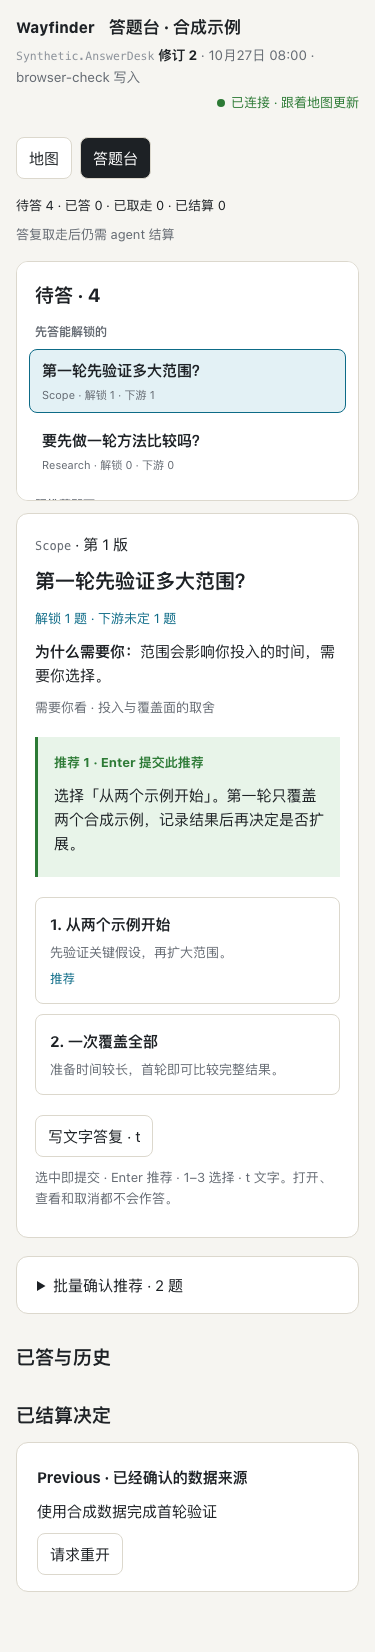
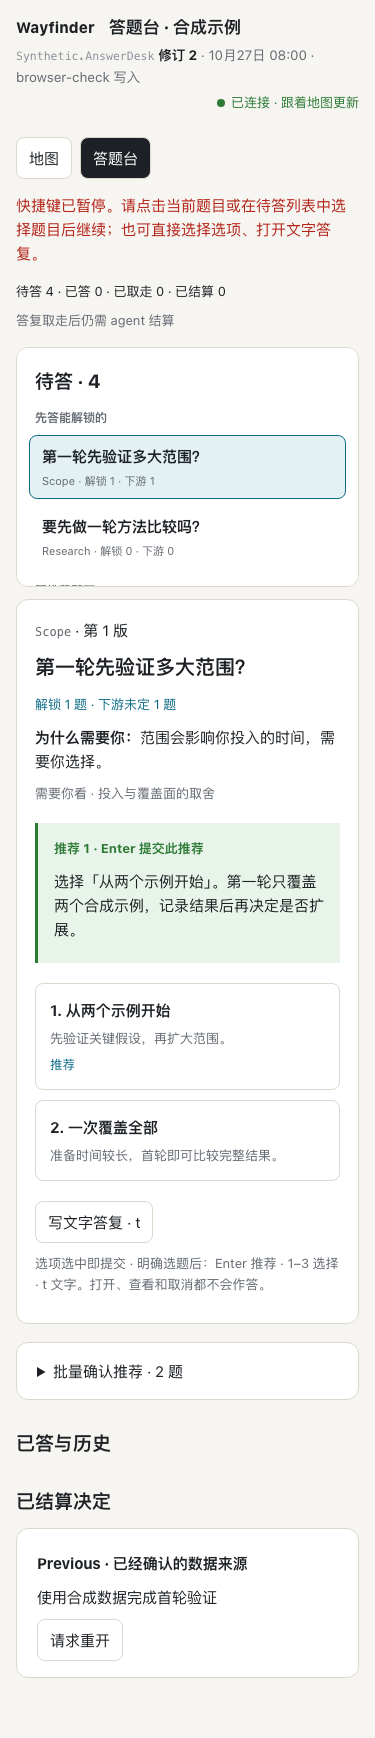
Require explicit current-question selection for Desk shortcuts
Refs #113

diff --git a/web/viewer/desk.js b/web/viewer/desk.js
@@ -3,10 +3,10 @@ export function createDesk({ h, mapId, key, refresh }) {
   const element = h('section', { class: 'desk', 'aria-label': '答题台' });
   const content = h('div');
   const status = h('p', { class: 'desk-feedback', role: 'status', 'aria-live': 'polite' });
-  // This non-answering focus target survives every repaint. Only deliberate question
-  // selection (or a successful explicit answer) resumes global shortcuts after focus loss.
+  // This non-answering focus target survives every repaint. Shortcut authority is
+  // an explicit question selection in this UI version, never the default card.
   const shortcutPause = h('p', { class: 'desk-warning', role: 'status', tabindex: '-1', hidden: true },
-    '答题台已更新，快捷键已暂停。请重新选择题目后继续，或直接选择选项、打开文字答复。');
+    '快捷键已暂停。请点击当前题目或在待答列表中选择题目后继续；也可直接选择选项、打开文字答复。');
   const dialog = h('dialog', { class: 'desk-dialog', 'aria-label': '确认答复' });
   element.append(status, shortcutPause, content, dialog);
   const names = { pending: '待答', answered: '已答 · 等待取走', taken: '已取走 · 等待结算', settled: '已结算', withdrawn: '已撤回', superseded_by_reopen: '已重开 · 旧题留档' };
@@ -14,6 +14,8 @@ export function createDesk({ h, mapId, key, refresh }) {
   const identity = q => `${q.questionId}/${q.questionVersion}`;
   const choiceText = choice => !choice ? '尚未回答' : 'text' in choice ? choice.text : `${choice.option}. ${choice.label}`;
   let data = null, fingerprint = '', active = null, changedQuestion = null, busy = false, editor = null;
+  let uiVersion = 0, explicitSelection = null;
+  const interactive = 'button,input,textarea,select,a,summary,[contenteditable],[role="button"],[role="link"]';
   const selected = new Set();
   const button = (label, fn, props = {}) => {
     const b = h('button', { type: 'button', ...props }, label); b.onclick = fn; return b;
@@ -22,13 +24,27 @@ export function createDesk({ h, mapId, key, refresh }) {
   const notice = message => { status.textContent = message; };
   const title = q => h('span', null, h('code', null, q.ticketId), ` · 第 ${q.questionVersion} 版`);
   const answer = (q, choice) => ({ questionId: q.questionId, questionVersion: q.questionVersion, choice });
+  function pauseShortcuts() {
+    uiVersion++; explicitSelection = null; shortcutPause.hidden = !key;
+  }
+  const hasSelection = () => explicitSelection?.question === active && explicitSelection?.version === uiVersion;
+  const hasQuestionFocus = () => !!document.activeElement?.closest('.desk-question') && content.contains(document.activeElement);
   function chooseQuestion(q) {
-    shortcutPause.hidden = true;
     changedQuestion = null; active = q ? identity(q) : null; render();
     const card = content.querySelector('.desk-question');
     card.focus(); card.scrollIntoView({ block: 'nearest' });
+    if (q && live(q)) { explicitSelection = { question: identity(q), version: uiVersion }; shortcutPause.hidden = true; }
   }
-  function closeEditor() { editor = null; dialog.close(); dialog.replaceChildren(); }
+  function closeEditor() {
+    editor = null;
+    if (dialog.open) {
+      pauseShortcuts(); dialog.close();
+      // The opener may have been replaced while the modal held focus. Even a
+      // successful answer authorizes no shortcut on the newly displayed card.
+      if (!element.hidden && key) shortcutPause.focus({ preventScroll: true });
+    }
+    dialog.replaceChildren();
+  }
   dialog.addEventListener('cancel', event => { event.preventDefault(); if (!busy) closeEditor(); });
 
   async function write(payload) {
@@ -56,7 +72,7 @@ export function createDesk({ h, mapId, key, refresh }) {
     return ok;
   }
   async function submit(q, choice) {
-    if (await write({ action: 'answer', submissions: [answer(q, choice)] })) { shortcutPause.hidden = true; active = null; render(); }
+    if (await write({ action: 'answer', submissions: [answer(q, choice)] })) { active = null; render(); }
   }
   function openText(q) {
     if (!canWrite()) return;
@@ -138,10 +154,10 @@ export function createDesk({ h, mapId, key, refresh }) {
       title(changedQuestion), h('h2', null, '问题已变，请重新选择题目后再回答。'),
       h('p', null, `刚才查看：${changedQuestion.question}`),
       h('p', null, '这道题已撤回、替换或结算。答复已暂停；请重新选题，或确认后查看当前题目。'),
-      button('已了解，查看当前题目', () => chooseQuestion(data.deskQuestions.find(q => q.state === 'pending'))));
+      button('已了解，查看当前题目', () => chooseQuestion(null)));
     if (!q) return h('article', { class: 'desk-question card-box', tabindex: '-1' }, h('h2', null, '当前没有待答题'), h('p', { class: 'desk-muted' }, 'agent 发布新题后会出现在这里。已答题的处理进度在下方。'));
     const context = data.reopenContexts.find(c => c.ticketId === q.ticketId);
-    return h('article', { class: 'desk-question card-box', tabindex: '-1' }, title(q), h('h2', null, q.question),
+    const card = h('article', { class: 'desk-question card-box', tabindex: '-1' }, title(q), h('h2', null, q.question),
       h('p', { class: 'desk-impact' }, `解锁 ${q.immediateUnlocks} 题 · 下游未定 ${q.downstreamUnsettled} 题${q.gatesResearch ? ' · 决定是否开展长调研' : ''}`),
       h('p', null, h('strong', null, '为什么需要你：'), q.whyKun),
       h('p', { class: 'desk-muted' }, `${q.triage === 'needsKun' ? '需要你看' : '照推荐即可'} · ${q.triageReason}`),
@@ -154,12 +170,16 @@ export function createDesk({ h, mapId, key, refresh }) {
         i + 1 === q.recommendedOption && h('small', null, '推荐'), i + 1 === q.requestedOption && h('small', null, 'Kun 要求'),
       ], () => submit(q, { option: i + 1 }), { class: 'desk-option', disabled: !canWrite() }))),
       button('写文字答复 · t', () => openText(q), { disabled: !canWrite() }),
-      h('p', { class: 'desk-muted' }, '选中即提交 · Enter 推荐 · 1–3 选择 · t 文字。打开、查看和取消都不会作答。'));
+      h('p', { class: 'desk-muted' }, '选项选中即提交 · 明确选题后：Enter 推荐 · 1–3 选择 · t 文字。打开、查看和取消都不会作答。'));
+    card.onclick = event => { if (!event.target.closest(interactive)) chooseQuestion(q); };
+    return card;
   }
-  function render(polling = false) {
+  function render() {
     if (!data) return;
-    const losesFocus = polling && content.contains(document.activeElement);
-    if (losesFocus) shortcutPause.hidden = false;
+    const losesFocus = content.contains(document.activeElement);
+    // Every repaint invalidates intent, regardless of where focus currently is
+    // (including a dialog or BODY). Unchanged polls never call render.
+    pauseShortcuts();
     const pending = data.deskQuestions.filter(q => q.state === 'pending');
     const current = changedQuestion ? null : data.deskQuestions.find(q => identity(q) === active && live(q)) ?? pending[0];
     active = current ? identity(current) : null;
@@ -205,25 +225,43 @@ export function createDesk({ h, mapId, key, refresh }) {
       h('div', { class: 'desk-summary' }, h('span', null, `待答 ${pending.length} · 已答 ${count('answered')} · 已取走 ${count('taken')} · 已结算 ${count('settled')}`),
         h('span', { class: 'desk-muted' }, data.quietUntil && Date.parse(data.quietUntil) > Date.now() ? `本轮最早可取走：${new Date(data.quietUntil).toLocaleTimeString()}` : '答复取走后仍需 agent 结算')),
       h('div', { class: 'desk-layout' }, queue, questionCard(current)), bulk, requests, history, settled);
-    if (losesFocus) shortcutPause.focus({ preventScroll: true });
+    if (losesFocus && !dialog.open && !element.hidden && key) shortcutPause.focus({ preventScroll: true });
   }
   const keydown = event => {
-    if (element.hidden || dialog.open || !shortcutPause.hidden || !canWrite() || event.repeat || event.isComposing || event.altKey || event.ctrlKey || event.metaKey
-      || event.target.closest('button,input,textarea,select,a,summary,[contenteditable],[role="button"],[role="link"]')) return;
+    if (element.hidden || dialog.open || event.target.closest(interactive)) return;
+    // Also check focus synchronously: browser focusout delivery after node removal
+    // is not reliable, and a page/root Enter must never inherit the last selection.
+    if (!hasQuestionFocus()) pauseShortcuts();
+    if (!hasSelection() || !canWrite() || event.repeat || event.isComposing || event.altKey || event.ctrlKey || event.metaKey) return;
     const q = data?.deskQuestions.find(q => identity(q) === active && live(q)); if (!q) return;
     const option = event.key === 'Enter' ? q.recommendedOption : /^[1-3]$/.test(event.key) ? Number(event.key) : null;
     if (option && q.options[option - 1]) { event.preventDefault(); submit(q, { option }); }
     else if (event.key.toLowerCase() === 't') { event.preventDefault(); openText(q); }
   };
+  const focusout = event => {
+    // Native focus transfer temporarily exposes BODY before the destination gains
+    // focus. Respect that destination so the notice cannot move a clicked control.
+    if (event.relatedTarget?.closest(`.desk-question,dialog,${interactive}`)) return;
+    queueMicrotask(() => { if (!dialog.open && !hasQuestionFocus()) pauseShortcuts(); });
+  };
+  const windowFocus = () => pauseShortcuts();
   document.addEventListener('keydown', keydown);
-  return { element, destroy() { closeEditor(); element.remove(); document.removeEventListener('keydown', keydown); }, update(next) {
+  document.addEventListener('focusout', focusout);
+  document.addEventListener('visibilitychange', windowFocus);
+  window.addEventListener('focus', windowFocus);
+  window.addEventListener('blur', windowFocus);
+  return { element, destroy() {
+    closeEditor(); element.remove(); document.removeEventListener('keydown', keydown);
+    document.removeEventListener('focusout', focusout); document.removeEventListener('visibilitychange', windowFocus);
+    window.removeEventListener('focus', windowFocus); window.removeEventListener('blur', windowFocus);
+  }, update(next, revision) {
     if (!next) return;
     // Polling must never silently move a pending keystroke onto a different publication.
     // Keep the interruption across subsequent polls, including when no pending question remains.
     if (active && !next.deskQuestions.some(q => identity(q) === active && live(q))) {
       changedQuestion = data.deskQuestions.find(q => identity(q) === active); active = null;
     }
-    data = next; const nextFingerprint = JSON.stringify(next);
-    if (fingerprint !== nextFingerprint) { fingerprint = nextFingerprint; render(true); updateEditor(); }
+    data = next; const nextFingerprint = JSON.stringify([revision, next]);
+    if (fingerprint !== nextFingerprint) { fingerprint = nextFingerprint; render(); updateEditor(); }
   } };
 }

diff --git a/web/viewer/viewer.js b/web/viewer/viewer.js
@@ -105,7 +105,7 @@
     // If drawing fails, keep asking for this Revision rather than calling a half-drawn page current.
     try {
       if (!previous || previous.revision !== next.revision || deskChanged) renderMap(previous);
-      deskController?.update(next.desk);
+      deskController?.update(next.desk, next.revision);
     }
     catch (error) { view = previous; throw error; }
   }
@@ -170,7 +170,7 @@
     if (deskController && $('main').contains(deskController.element)) {
       $('main').querySelector('.map-drawing').replaceWith(drawing);
       drawing.hidden = deskMode;
-      deskController.update(view.desk);
+      deskController.update(view.desk, view.revision);
     } else if (deskController) {
       const graphButton = h('button', { type: 'button' }, '地图');
       const deskButton = h('button', { type: 'button' }, '答题台');
@@ -181,7 +181,7 @@
       };
       graphButton.onclick = () => switchMode(false); deskButton.onclick = () => switchMode(true);
       $('main').replaceChildren(h('nav', { class: 'desk-tabs', 'aria-label': '地图视图' }, graphButton, deskButton), deskController.element, drawing);
-      deskController.update(view.desk);
+      deskController.update(view.desk, view.revision);
       switchMode(deskMode);
     } else $('main').replaceChildren(drawing);
     const newGraph = $('main').querySelector('.graph');

diff --git a/docs/implementation/answer-desk-viewer.md b/docs/implementation/answer-desk-viewer.md
@@ -1,6 +1,6 @@
 # Answer Desk viewer (#113)
 
-This slice implements [Answer Desk §5, §7 and §9](../spec/answer-desk.md) on the existing Map viewer. It ships as Release Version 3.3.0 **disabled by default**, using the same `answerDeskEnabled` setting introduced by the storage slice. It changes no MCP tool or workflow text. Delivery transport and coordinated real-client/ChatGPT acceptance remain separate work.
+This slice implements [Answer Desk §5, §7 and §9](../spec/answer-desk.md) on the existing Map viewer. It ships as Release Version 3.4.0 **disabled by default**, using the same `answerDeskEnabled` setting introduced by the storage slice. It changes no MCP tool or workflow text. Delivery transport and coordinated real-client/ChatGPT acceptance remain separate work.
 
 ## Browser boundary
 
@@ -22,17 +22,17 @@ The launcher sets that file path to `answer-desk-key` in its private service dir
 
 The command neither enables the feature nor prints the URL or adds a launch-metadata record. The launcher regression uses a real executable that records its argv/environment as `BROWSER`: an unkeyed probe proves the recorder works, then the desk launch must leave its keyless output untouched. A second real subprocess stands in for the OS Apple-event endpoint, verifies the exact production argv/environment and captures the URL only from stdin. It attempts to echo that stdin to stdout/stderr on both success and failure; neither stream reaches the launcher output. No real browser, harness or service is opened by this test.
 
-Once the first read projection confirms the desk is enabled, the viewer reads the fragment, immediately strips it with `history.replaceState(null, …)` and retains the key only in closures. A disabled viewer neither reads nor removes the fragment. The enabled key is not in DOM attributes, history state, cookies, browser storage, global variables, returned data, scripts or service logs. Refreshing or opening another page requires the launcher again. A service restart rejects an existing page's old key; the UI reports that it must be reopened. Same-user private-file access is an operator capability, not an MCP privilege: an unrestricted same-user process can still read the private key file. Fragment stripping does not promise erasure from the browser's own history database; restart invalidates any retained old key.
+The fragment remains in the URL until the first successful read projection confirms the desk is enabled (including while that read is delayed or failing). Once confirmed, the viewer reads the fragment, immediately strips it with `history.replaceState(null, …)` and retains the key only in closures. A disabled viewer neither reads nor removes the fragment. The enabled key is not in DOM attributes, history state, cookies, browser storage, global variables, returned data, scripts or service logs. Refreshing or opening another page requires the launcher again. A service restart rejects an existing page's old key; the UI reports that it must be reopened. Same-user private-file access is an operator capability, not an MCP privilege: an unrestricted same-user process can still read the private key file. Fragment stripping does not promise erasure from the browser's own history database; restart invalidates any retained old key.
 
 ## Projection and interaction
 
 When enabled, the existing `/api/maps/<mapId>/view?known=<revision>` returns a fresh coherent head/desk projection every two seconds, even when the Revision is unchanged. The page avoids repainting unchanged desk content, and preserves a text modal and draft across both desk changes and new Map Revisions. It retains the viewer's unreachable/stale indication. Human writes call the existing guarded storage seam and never advance a Map Revision.
 
-The queue uses the service's order without recomputing it: unlock/research gates, Unlock Count, Downstream Count, triage, time and identity. Each question shows consequences, why Kun is needed, triage reason, full recommendation and two or three options. Selection submits immediately; with focus outside interactive controls, Enter submits the explicitly labelled recommendation, 1–3 select and `t` opens a text draft. Focused buttons, inputs, links and other interactive controls retain their native keyboard actions: queue Enter selects that question, option Enter submits that option, and text-button Enter opens its draft. Empty text, viewing, opening and cancelling submit nothing. Bulk confirmation shows every selected full recommended answer in a modal; it captures the displayed Question Versions and does not silently rebind them after a poll.
+The queue uses the service's order without recomputing it: unlock/research gates, Unlock Count, Downstream Count, triage, time and identity. Each question shows consequences, why Kun is needed, triage reason, full recommendation and two or three options. Option selection submits immediately. Global shortcuts require an explicit selection of the current Question Version in the current UI version, with focus on that question: Enter submits the explicitly labelled recommendation, 1–3 select and `t` opens a text draft. Clicking a question card or selecting a named queue/history question establishes that selection; merely displaying the default card does not. Focused buttons, inputs, links and other interactive controls retain their native keyboard actions: queue Enter selects that question, option Enter submits that option, and text-button Enter opens its draft. Empty text, viewing, opening and cancelling submit nothing. Bulk confirmation shows every selected full recommended answer in a modal; it captures the displayed Question Versions and does not silently rebind them after a poll.
 
-When a poll would remove the focused desk content, the page moves focus to a persistent, non-answering notice and pauses global shortcuts. This includes unrelated new publications and desk-only delivery changes. Enter, 1–3 and `t` remain inactive across subsequent polls and clicks on empty space until Kun explicitly selects a question; freshly focused option and text controls still support their own native actions. A successful explicit answer also resumes the normal next-question shortcuts. The pause has no timeout: elapsed time cannot establish intent. Open dialogs and drafts are outside the replaced content and retain their focus.
+Every desk repaint increments the local UI version and invalidates the explicit selection, including changed polling with focus in a dialog, unrelated Map Revisions, desk-only delivery updates and write refreshes. Closing any dialog, returning focus to BODY/a page root, window blur/refocus and visibility changes also invalidate it. A persistent, non-answering notice shows the pause; when repaint removes the focused control or a dialog closes, focus moves there. Open dialogs keep focus and drafts while polling, but closing them never re-enables shortcuts. Enter, 1–3 and `t` stay paused across unchanged polls and empty-space clicks until explicit selection. Native option/text buttons retain their actions. Successful answers still display the next pending question, but do not authorize its shortcuts: another Enter cannot answer it until Kun selects it. Neither elapsed time nor a successful Reopen Request or cancellation establishes answer intent.
 
-If polling finds that the Question Version being viewed has been withdrawn, replaced or settled, the card retains its old identity and question with “问题已变，请重新选择题目后再回答。” The pause disables writes and shortcuts across subsequent polls, including an empty queue followed by new questions. Kun must explicitly select a queue question or an editable answer, or activate “已了解，查看当前题目”, before responding again. That acknowledgement also releases the pause when no live question remains, so settled-history actions remain reachable. Successful human submissions still advance to the next pending question normally; a background publication change cannot authorize that navigation.
+If polling finds that the Question Version being viewed has been withdrawn, replaced or settled, the card retains its old identity and question with “问题已变，请重新选择题目后再回答。” The pause disables writes and shortcuts across subsequent polls, including an empty queue followed by new questions. Kun must explicitly select a queue question or an editable answer, or activate “已了解，查看当前题目”, before responding again. That acknowledgement alone does not select the new default question for shortcuts. That acknowledgement also releases the pause when no live question remains, so settled-history actions remain reachable. Successful human submissions still advance to the next pending question normally; a background publication change cannot authorize that navigation.
 
 Answered and Taken answers remain editable until Settlement. Withdrawal strikes through the question and displays its reason. Old answers and superseded publications appear as history. Requested-option markers remain visually separate from submitted answers and recommendations; text Reopen context is displayed verbatim with no prefilled answer. The browser test checks that a marker for option 2 still makes Enter submit recommendation 1.
 
@@ -44,7 +44,7 @@ Only disposable SQLite fixtures and synthetic text were used. No real model/clie
 
 - `tests/viewer-desk.test.ts`: absent/false setting, route/method/Host/origin/key boundaries, bounded and malformed bodies (including complete 413 responses for fixed-length and chunked excess uploads), no token substitution or general edits, bulk admission, unchanged Revisions, desk-only polling, answer replacement and stale-publication rejection, Reopen binding changes/cancellation/replacement, restart rotation, private-file refusal and the subprocess launcher handoff above.
 - Existing `tests/viewer-http.test.ts` continues to cover the disabled read-only viewer and access behavior.
-- `tests/helpers/viewer-desk-browser.mjs` uses headless Chromium and a fresh cache database. It verifies real Tab traversal followed by Enter on queue/text/option buttons; all six text-button/queue-B/option-2 × unrelated-publication/answer-Taken polling interleavings with zero POSTs or new answers until explicit reselection; numeric/text keys while a button is focused; no writes before deliberate reselection after replacement, withdrawal, empty-queue/new-publication and Settlement; normal body shortcuts and post-submit advancement; keyboard/text/bulk/edit behavior; empty/cancel/open no-ops; draft preservation; Taken/Settled following; withdrawal history; stale editor refusal; affected-list re-review; cancellation; preselection/text context; enabled fragment/storage/DOM absence; restart invalidation and disabled UI with ordinary and key-shaped fragments preserved. A controlled clock advances release boundaries without timing races. It produces the screenshots below and checks 375px without horizontal overflow. No browser dependency was added to the project.
+- `tests/helpers/viewer-desk-browser.mjs` uses headless Chromium and a fresh cache database. It verifies real Tab traversal followed by Enter on queue/text/option buttons; all six text-button/queue-B/option-2 × unrelated-publication/answer-Taken polling interleavings with zero POSTs or new answers until explicit reselection; numeric/text keys while a button is focused; no writes before deliberate reselection after replacement, withdrawal, empty-queue/new-publication and Settlement; 27 text/bulk/reopen × publication/Taken/no-change × Escape/cancel/confirm cases with no unintended POST or answer after closure; initial/root/blur/window/Revision/write/Reopen Request/cancellation invalidation; explicit selection surviving an unchanged poll and enabling Enter; post-submit display advancement with shortcuts paused; keyboard/text/bulk/edit behavior; empty/cancel/open no-ops; draft preservation; Taken/Settled following; withdrawal history; stale editor refusal; affected-list re-review; cancellation; preselection/text context; enabled fragment/storage/DOM absence; restart invalidation and disabled UI with ordinary and key-shaped fragments preserved. A controlled clock advances release boundaries without timing races. It produces the screenshots below and checks 375px without horizontal overflow. No browser dependency was added to the project.
 
 To reproduce after `npm run build`, set `WAYFINDER_PLAYWRIGHT_MODULE` to the absolute `playwright/index.mjs` of a local Playwright installation, then run `node tests/helpers/viewer-desk-browser.mjs` under Node 26.3.0. Set optional `WAYFINDER_BROWSER_EVIDENCE_DIR` to keep repeat-run screenshots outside the checked-in evidence directory. The helper owns and removes only its new `~/Library/Caches/wayfinder-behaviour-tests/answer-desk-browser-*` directory and its free-port service.
 
@@ -57,3 +57,7 @@ Final build/test/typecheck results are recorded in the PR. The parallel delivery
 Review round 2, 2026-10-27: Node 26.3.0 `npm run build`, `npm run typecheck`, `npm test` (54 files / 2,335 tests, 200.22 seconds), `git diff --check` and the expanded Chromium helper all passed. The initial targeted HTTP run reproduced an `ECONNRESET` on the excess-body boundary; after draining excess uploads, both fixed-length and chunked refusal checks passed in the targeted run and full suite. Version 3.3.0 remains pending the coordinator's merge-order decision.
 
 Review round 3, 2026-10-27: the new polling/focus regression first failed against the previous implementation (`publication/text`: Enter increased stored answers from 1 to 2). After the persistent shortcut pause, all six polling/focus cases and the complete Chromium helper passed, including normal shortcuts and disabled-fragment preservation. Node 26.3.0 `npm run build`, `npm test` (54 files / 2,335 tests, 265.17 seconds), `npm run typecheck` and `git diff --check` passed. The launcher fixture also verifies that unsupported-platform guidance precedes service startup/key access. Version remains 3.3.0 as dispatched; no merge or real-client run was performed.
+
+Review round 4, 2026-10-27: the new dialog regression first failed on `019dfcc` (`text/publication/escape`: shortcuts increased stored answers from 1 to 2). The implementation now binds shortcut authority to an explicit Question Version selection and local UI version, invalidating it on every changed projection (including an unrelated Map Revision), repaint, dialog close, root focus loss and window/visibility change. After the fix, all 27 text/bulk/reopen × publication/Taken/no-change × Escape/cancel/confirm combinations and the original six focus/poll cases passed. Additional checks cover initial display, BODY and main-root focus, window focus events, post-answer refresh, Reopen Request filing/cancellation, and explicit selection surviving an unchanged poll; every positive Enter creates exactly one answer. The complete Chromium helper also passed with no script/CSP errors across all pages, retaining light/dark/375px, native-control, draft, history, binding and key-boundary checks.
+
+Integrated `main` at `12962d8` after the delivery release and assigned this viewer slice **3.4.0**, retaining both viewer-key cleanup and delivery/admission shutdown. Node 26.3.0 `npm run build`, `npm test` (56 files / 2,363 tests, 203.52 seconds), `npm run typecheck` and `git diff --check` passed. The first integrated suite could not load the newly merged `ext-tasks` fixture dependency; after `npm ci` reconciled the lockfile, the complete suite passed. No real-client run or merge was performed; independent review and coordinated acceptance remain with the coordinator.

diff --git a/docs/spec/answer-desk.md b/docs/spec/answer-desk.md
@@ -105,7 +105,7 @@ On each target re-post while the [request context in section 6.2](#62-public-res
 
 ### Human submission
 
-Selection submits immediately. Enter submits the recommendation, 1–3 submit the corresponding option, and `t` opens text entry. Opening, viewing and cancelling never submit; empty text never submits. Bulk confirmation applies only to selected `followRecommendation` questions and shows each full recommended answer before confirmation. It creates a separate answer to each displayed Question Version. A blanket “use recommendations” outside the desk remains insufficient.
+Option selection submits immediately. Global shortcuts require Kun to explicitly select the current Question Version after the latest UI change: Enter submits the recommendation, 1–3 submit the corresponding option, and `t` opens text entry. Changed polling, closing a dialog, write refreshes (including answers and Reopen Request filing/cancellation), focus falling to the page root and window refocus invalidate that selection and show a pause until explicit reselection. Displaying or advancing to a default question does not select it; focused controls keep their native keyboard actions. Opening, viewing and cancelling never submit; empty text never submits. Bulk confirmation applies only to selected `followRecommendation` questions and shows each full recommended answer before confirmation. It creates a separate answer to each displayed Question Version. A blanket “use recommendations” outside the desk remains insufficient.
 
 Preselection, sourced from the [request context in section 6.2](#62-public-results-and-recovery-reads), is only a “Requested by Kun” marker, never drawn as a selected or submitted answer and never a submission itself. The page labels which option Enter submits. When the requested option and recommendation differ, show both markers distinctly, for example “Requested by Kun: 2 · Recommended: 1”; Kun uses the requested option's number key to submit it.
 
